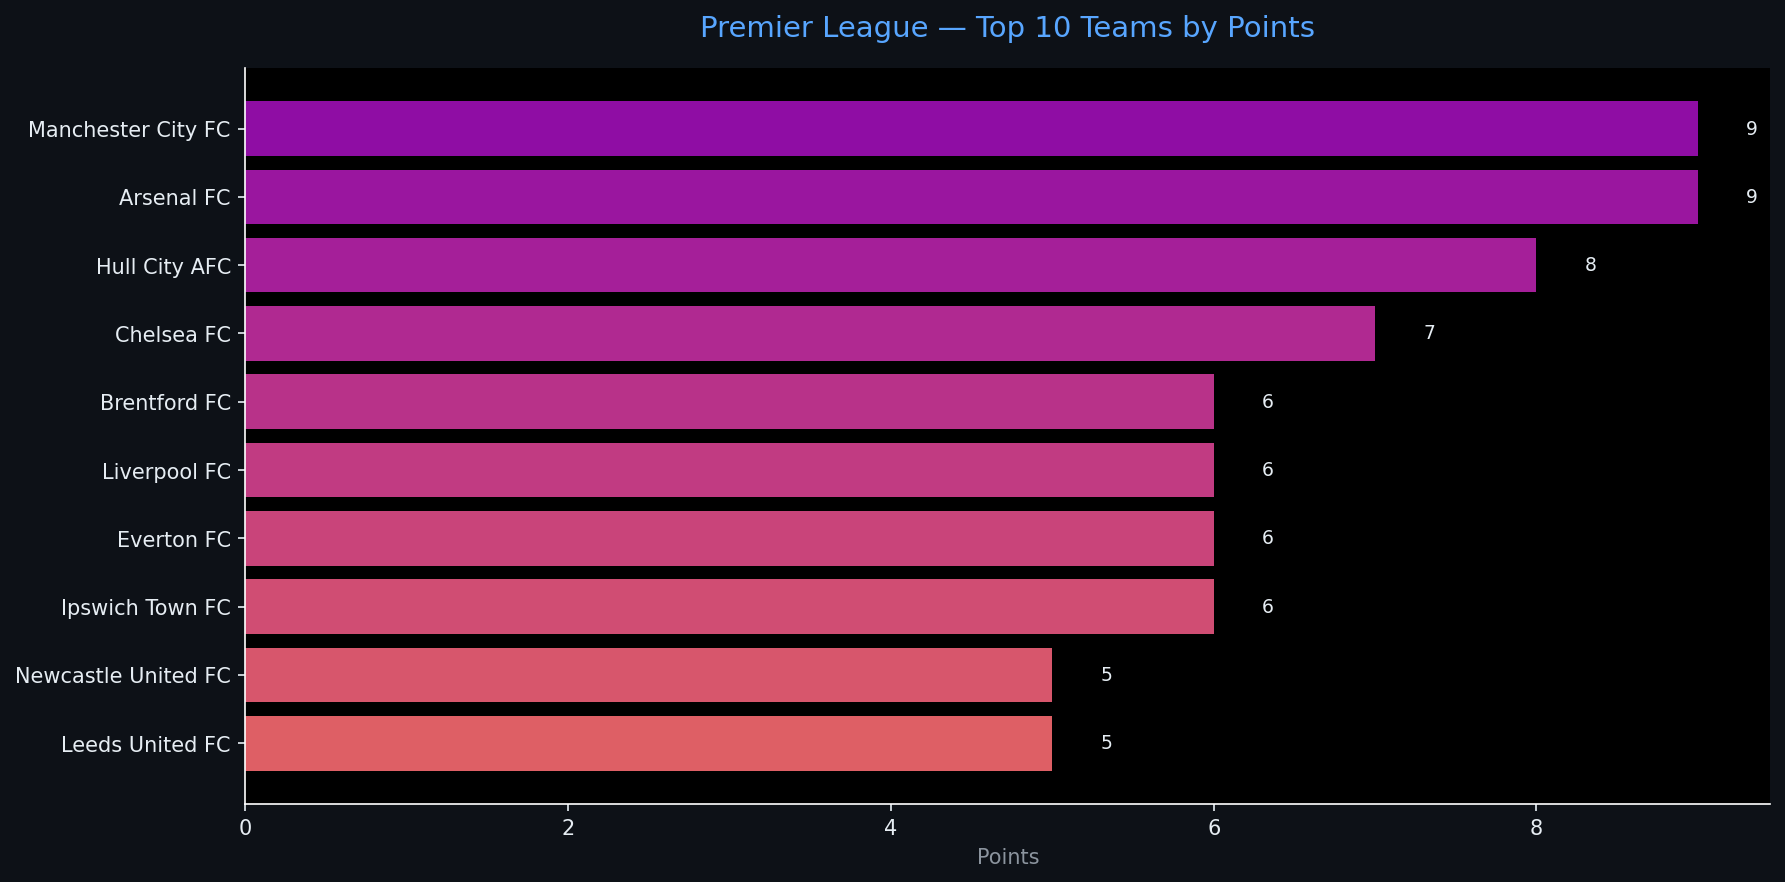
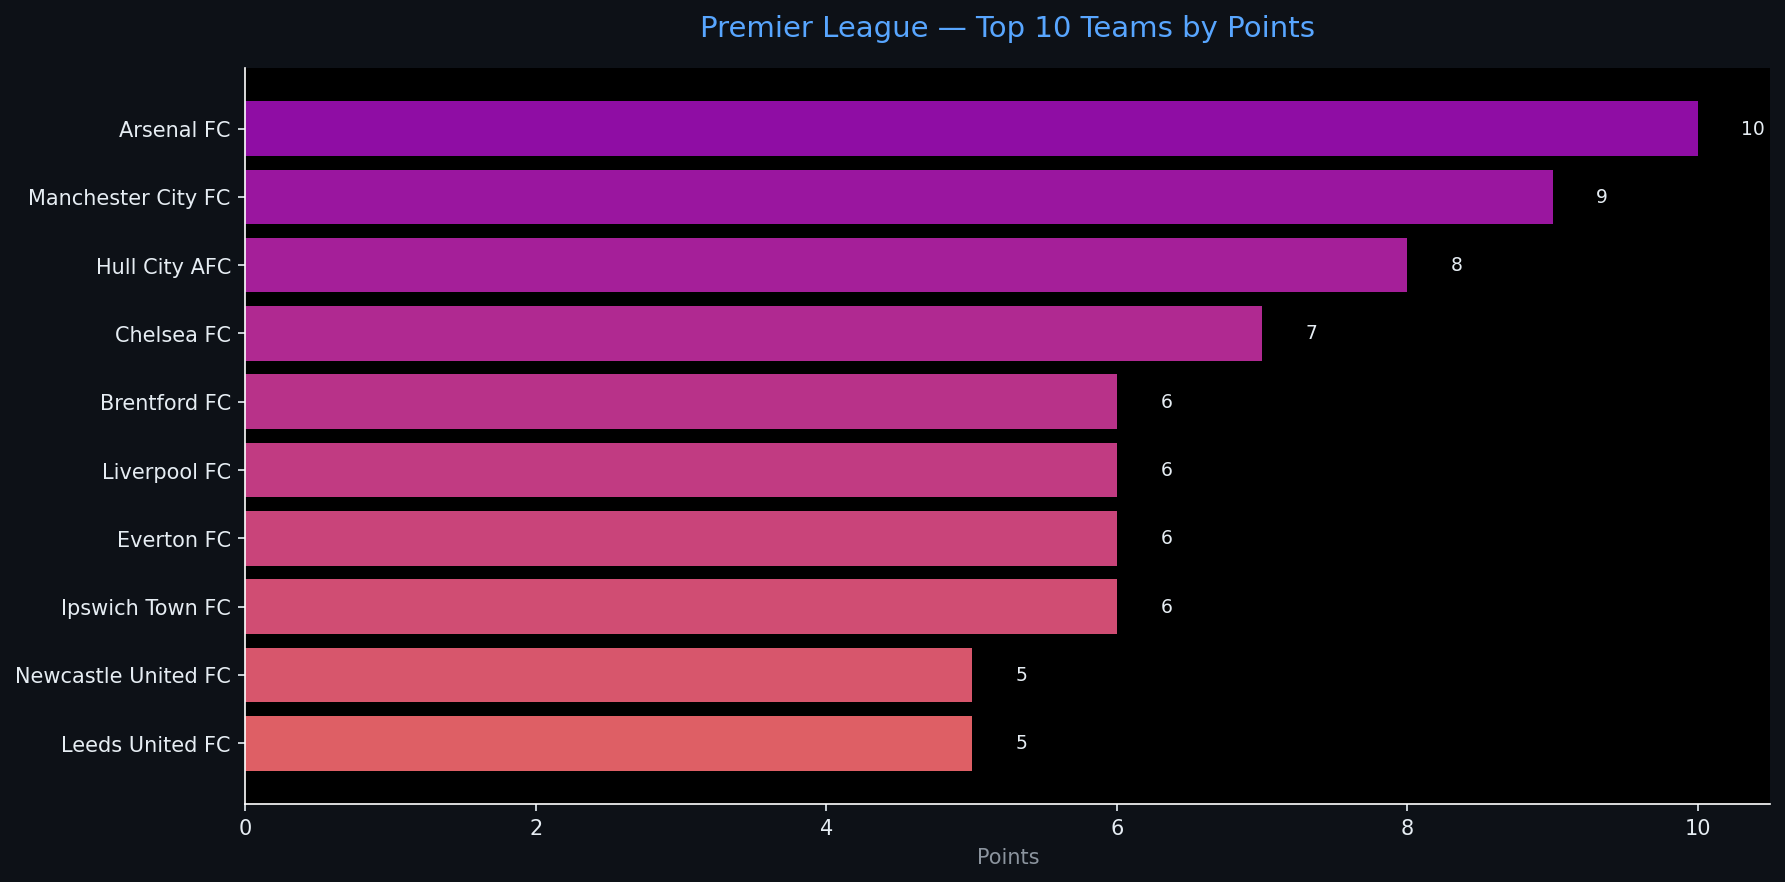
Automated ETL data update: 2026-09-12 19:58

diff --git a/reports/pipeline_report.html b/reports/pipeline_report.html
@@ -4,7 +4,7 @@
 <head>
     <meta charset="UTF-8">
     <meta name="viewport" content="width=device-width, initial-scale=1.0">
-    <title>Sports Data Pipeline Report — 2026-09-12 16:40</title>
+    <title>Sports Data Pipeline Report — 2026-09-12 19:58</title>
     <style>
         body { font-family: 'Segoe UI', sans-serif; background: #0d1117; color: #e6edf3; margin: 0; padding: 2rem; }
         h1   { color: #58a6ff; border-bottom: 1px solid #30363d; padding-bottom: 0.5rem; }
@@ -20,7 +20,7 @@
 </head>
 <body>
     <h1>⚽ Sports Data Pipeline — Automated Report</h1>
-    <p class="meta">Generated: 2026-09-12 16:40 UTC &nbsp;|&nbsp; Sport: <strong>football</strong> &nbsp;|&nbsp; Rows: <strong>20</strong></p>
+    <p class="meta">Generated: 2026-09-12 19:58 UTC &nbsp;|&nbsp; Sport: <strong>football</strong> &nbsp;|&nbsp; Rows: <strong>20</strong></p>
     <span class="badge">Pipeline v1.0.0</span>
     <h2>📊 Data Table</h2>
     <table class="dataframe data-table">
@@ -44,6 +44,21 @@
   <tbody>
     <tr>
       <td>1</td>
+      <td>Arsenal FC</td>
+      <td>4</td>
+      <td>10</td>
+      <td>3</td>
+      <td>1</td>
+      <td>0</td>
+      <td>6</td>
+      <td>1</td>
+      <td>0.750</td>
+      <td>2.500</td>
+      <td>0.973</td>
+      <td>NaN</td>
+    </tr>
+    <tr>
+      <td>2</td>
       <td>Manchester City FC</td>
       <td>3</td>
       <td>9</td>
@@ -55,21 +70,6 @@
       <td>1.000</td>
       <td>3.000</td>
       <td>0.925</td>
-      <td>NaN</td>
-    </tr>
-    <tr>
-      <td>2</td>
-      <td>Arsenal FC</td>
-      <td>3</td>
-      <td>9</td>
-      <td>3</td>
-      <td>0</td>
-      <td>0</td>
-      <td>6</td>
-      <td>1</td>
-      <td>1.000</td>
-      <td>3.000</td>
-      <td>0.973</td>
       <td>NaN</td>
     </tr>
     <tr>
@@ -209,6 +209,21 @@
     </tr>
     <tr>
       <td>12</td>
+      <td>Sunderland AFC</td>
+      <td>4</td>
+      <td>5</td>
+      <td>1</td>
+      <td>2</td>
+      <td>1</td>
+      <td>3</td>
+      <td>3</td>
+      <td>0.250</td>
+      <td>1.250</td>
+      <td>0.500</td>
+      <td>NaN</td>
+    </tr>
+    <tr>
+      <td>13</td>
       <td>Brighton &amp; Hove Albion FC</td>
       <td>3</td>
       <td>4</td>
@@ -223,7 +238,7 @@
       <td>NaN</td>
     </tr>
     <tr>
-      <td>13</td>
+      <td>14</td>
       <td>Manchester United FC</td>
       <td>3</td>
       <td>4</td>
@@ -235,21 +250,6 @@
       <td>0.333</td>
       <td>1.333</td>
       <td>0.576</td>
-      <td>NaN</td>
-    </tr>
-    <tr>
-      <td>14</td>
-      <td>Sunderland AFC</td>
-      <td>3</td>
-      <td>4</td>
-      <td>1</td>
-      <td>1</td>
-      <td>1</td>
-      <td>3</td>
-      <td>3</td>
-      <td>0.333</td>
-      <td>1.333</td>
-      <td>0.500</td>
       <td>NaN</td>
     </tr>
     <tr>
@@ -362,7 +362,7 @@
         
         <tr><td>Null Values</td><td>92</td></tr>
         
-        <tr><td>Run Timestamp (UTC)</td><td>2026-09-12T16:40:25.719431</td></tr>
+        <tr><td>Run Timestamp (UTC)</td><td>2026-09-12T19:58:42.947498</td></tr>
         
         <tr><td>ML Features Ready</td><td>False</td></tr>
         
